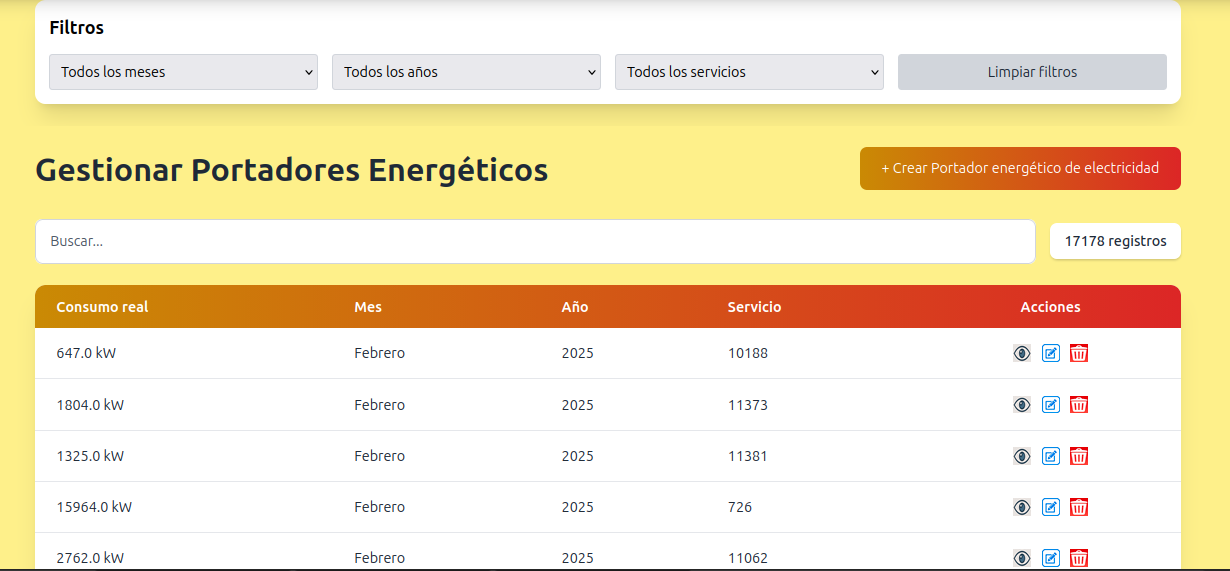
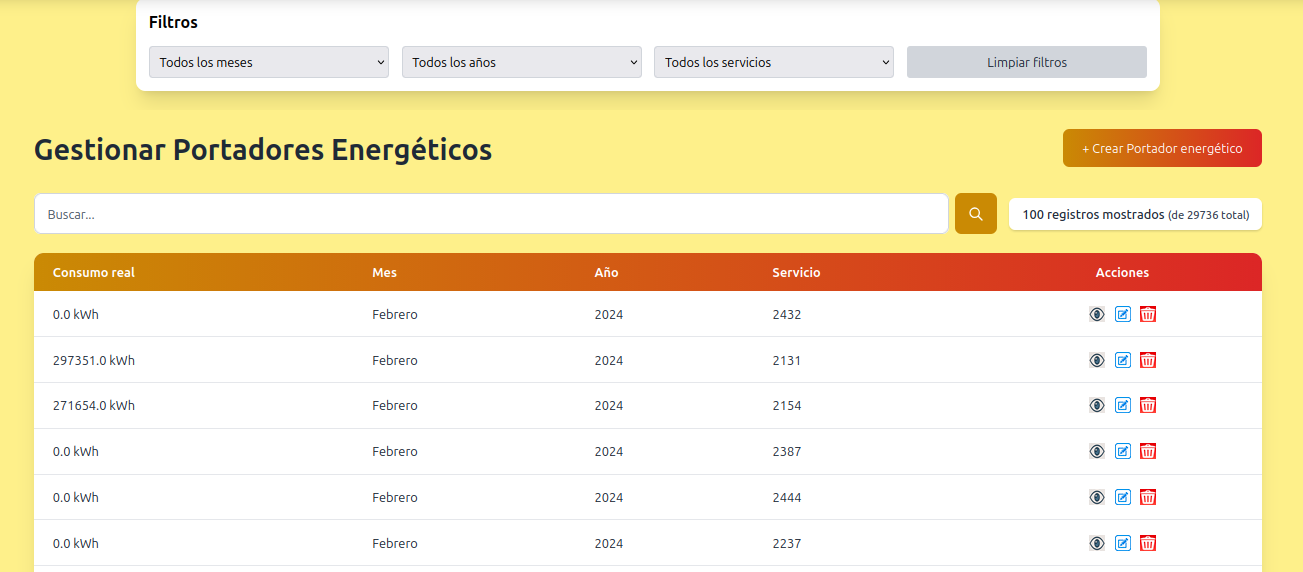
Mejorando gráfico de inicio

diff --git a/frontend/src/pages/inicio.jsx b/frontend/src/pages/inicio.jsx
@@ -10,7 +10,7 @@ export function Inicio() {
   const [selectedYear, setSelectedYear] = useState(null);
   const [years, setYears] = useState([]);
   const [loadingYears, setLoadingYears] = useState(true);
-  const [unidad, setUnidad] = useState('MW'); 
+  const [unidad, setUnidad] = useState('MWh'); 
 
   useEffect(() => {
     const fetchYears = async () => {
@@ -83,20 +83,28 @@ export function Inicio() {
             <span className="text-gray-700 font-medium">Unidad:</span>
             <div className="flex gap-2">
               <button
-                onClick={() => setUnidad('kW')}
+                onClick={() => setUnidad('kWh')}
                 className={`px-3 py-1 rounded-md transition ${
-                  unidad === 'kW' ? 'bg-red-600 text-white' : 'bg-gray-200 text-gray-700 hover:bg-gray-300'
+                  unidad === 'kWh' ? 'bg-red-600 text-white' : 'bg-gray-200 text-gray-700 hover:bg-gray-300'
                 }`}
               >
-                kW
+                kWh
               </button>
               <button
-                onClick={() => setUnidad('MW')}
+                onClick={() => setUnidad('MWh')}
                 className={`px-3 py-1 rounded-md transition ${
-                  unidad === 'MW' ? 'bg-red-600 text-white' : 'bg-gray-200 text-gray-700 hover:bg-gray-300'
+                  unidad === 'MWh' ? 'bg-red-600 text-white' : 'bg-gray-200 text-gray-700 hover:bg-gray-300'
                 }`}
               >
-                MW
+                MWh
+              </button>
+              <button
+                onClick={() => setUnidad('GWh')}
+                className={`px-3 py-1 rounded-md transition ${
+                  unidad === 'GWh' ? 'bg-red-600 text-white' : 'bg-gray-200 text-gray-700 hover:bg-gray-300'
+                }`}
+              >
+                GWh
               </button>
             </div>
           </div>

diff --git a/frontend/src/components/ConsumoAnualChart.jsx b/frontend/src/components/ConsumoAnualChart.jsx
@@ -23,7 +23,7 @@ const yAxisFormat = (value) => {
   return value.toString();
 };
 
-export function ConsumoAnualChart({ año, unidad = 'kW' }) {
+export function ConsumoAnualChart({ año, unidad = 'kWh' }) {
   const [data, setData] = useState([]);
   const [loading, setLoading] = useState(true);
   const [error, setError] = useState(null);
@@ -53,9 +53,12 @@ export function ConsumoAnualChart({ año, unidad = 'kW' }) {
   if (!data.length) return <div className="text-center py-12 text-gray-600">No hay datos disponibles para el año {año}</div>;
 
   const maxTotal = Math.max(...data.map(d => d.total), 0);
-  const yDomain = [0, maxTotal * 1.1 || 100];
+  const yDomain = [0, Math.ceil(maxTotal * 1.1)];
 
-  const unidadLower = unidad === 'MW' ? 'MW' : 'kW';
+  let unidadLower = 'kWh';
+  if (unidad === 'MWh') unidadLower = 'MWh';
+  else if (unidad === 'GWh') unidadLower = 'GWh';
+  else unidadLower = 'kWh';
 
   return (
     <div className="bg-white rounded-2xl shadow-xl p-6 max-w-4xl mx-auto">

diff --git a/frontend/src/components/TopEntidadesConsumo.jsx b/frontend/src/components/TopEntidadesConsumo.jsx
@@ -9,7 +9,7 @@ const formatNumber = (num) => {
   }).replace(/\./g, ' ');
 };
 
-export function TopEntidadesConsumo({ año, unidad = 'kW' }) {
+export function TopEntidadesConsumo({ año, unidad = 'kWh' }) {
   const [data, setData] = useState([]);
   const [loading, setLoading] = useState(true);
   const [error, setError] = useState(null);
@@ -35,7 +35,10 @@ export function TopEntidadesConsumo({ año, unidad = 'kW' }) {
   if (error) return <div className="text-center py-4 text-red-600">{error}</div>;
   if (!data.length) return <div className="text-center py-4 text-gray-900">No hay datos para el año {año}.</div>;
 
-  const unidadLabel = unidad === 'MW' ? 'MW' : 'kW';
+  let unidadLabel = 'kWh';
+  if (unidad === 'MWh') unidadLabel = 'MWh';
+  else if (unidad === 'GWh') unidadLabel = 'GWh';
+  else unidadLabel = 'kWh';
 
   return (
     <div className="bg-white rounded-2xl shadow-xl p-6 max-w-4xl mx-auto mt-8">

diff --git a/frontend/src/api/consultas.js b/frontend/src/api/consultas.js
@@ -1,7 +1,7 @@
 import axios from './axios';
 
 
-export const getConsumoPorMes = async (anio, unidad = 'kW') => {
+export const getConsumoPorMes = async (anio, unidad = 'kWh') => {
   try {
     const response = await axios.get(`/consultas/consumo-por-mes/`, {
       params: { anio, unidad }
@@ -13,7 +13,7 @@ export const getConsumoPorMes = async (anio, unidad = 'kW') => {
   }
 };
 
-export const getTopEntidadesConsumo = async (anio, unidad = 'kW') => {
+export const getTopEntidadesConsumo = async (anio, unidad = 'kWh') => {
   try {
     const response = await axios.get(`/consultas/top-entidades/${anio}/`, {
       params: { unidad }

diff --git a/frontend/src/pages/gestionar/entidad/ver.jsx b/frontend/src/pages/gestionar/entidad/ver.jsx
@@ -11,9 +11,9 @@ const fields = [
   { key: 'municipio_nombre', label: 'Municipio' },
   { key: 'organismo', label: 'Organismo' },
   { key: 'nae_nombre', label: 'NAE' },
+  { key: 'cuenta_bancaria_formateada', label: 'Cuenta bancaria' },
   { key: 'siglas', label: 'Siglas' },
   { key: 'telefono', label: 'Teléfono' },
-  { key: 'cuenta_bancaria', label: 'Cuenta bancaria' },
   { key: 'NIT', label: 'NIT' },
   { key: 'direccion', label: 'Dirección' },
   { key: 'geolocalizacion', label: 'Geolocalización' },

diff --git a/frontend/src/components/Navegación.jsx b/frontend/src/components/Navegación.jsx
@@ -30,7 +30,6 @@ export function Navegación() {
       items: [
         { name: 'Servicio eléctrico', path: '/gestionar/servicio-electrico' },
         { name: 'Portador energético', path: '/gestionar/portador_energetico_elec' },
-        { name: 'Unidad de medida', path: '/gestionar/unidad_medida' },
       ]
     },
     {

diff --git a/frontend/src/pages/gestionar/portador_energetico_elec/formulario.jsx b/frontend/src/pages/gestionar/portador_energetico_elec/formulario.jsx
@@ -71,7 +71,7 @@ export function PortadorEnergeticoElecForm() {
       loadOptions: searchServicioElectrico,
       placeholder: 'Buscar servicio por código...' 
     },
-    { name: 'unidad_medida', label: 'Unidad de medida', type: 'select', required: true, options: unidadMedidaOptions },
+  
   ];
 
   if (loading) {

diff --git a/backend/app_gestion/views/consultas/consumo_por_mes.py b/backend/app_gestion/views/consultas/consumo_por_mes.py
@@ -12,14 +12,14 @@ class ConsumoPorMesView(APIView):
     Endpoint para obtener el consumo por mes con desplazamiento hacia adelante.
     Parámetros:
         - anio (requerido): año visual.
-        - unidad (opcional): 'kW' (default) o 'MW'.
+        - unidad (opcional): 'kWh', 'MWh' o 'GWh' (por defecto 'kWh').
     """
     authentication_classes = [TokenAuthentication]
     permission_classes = [IsAuthenticated]
 
     def get(self, request):
         año_param = request.query_params.get('anio')
-        unidad = request.query_params.get('unidad', 'kW').upper()
+        unidad = request.query_params.get('unidad', 'kWh').upper()
 
         if not año_param:
             return Response(
@@ -34,8 +34,8 @@ class ConsumoPorMesView(APIView):
                 status=status.HTTP_400_BAD_REQUEST
             )
 
-        if unidad not in ('KW', 'MW'):
-            unidad = 'MW'
+        if unidad not in ('KWH', 'MWH', 'GWH'):
+            unidad = 'KWH'
 
         resultado = []
         for mes_visual in range(1, 13):
@@ -46,14 +46,19 @@ class ConsumoPorMesView(APIView):
                 año_real = año
                 mes_real = mes_visual + 1
 
-            total_kw = (
+            total_kwh = (
                 Portador_energetico_elec.objects
                 .filter(año=año_real, mes=mes_real)
                 .aggregate(total=Sum('consumo_real'))['total'] or 0
             )
 
             # Conversión según unidad
-            total = total_kw / 1000.0 if unidad == 'MW' else total_kw
+            if unidad == 'MWH':
+                total = total_kwh / 1000.0
+            elif unidad == 'GWH':
+                total = total_kwh / 1000000.0
+            else:
+                total = total_kwh
 
             resultado.append({
                 'mes': mes_visual,

diff --git a/backend/app_gestion/views/consultas/entidades_mayor_consumo.py b/backend/app_gestion/views/consultas/entidades_mayor_consumo.py
@@ -11,7 +11,7 @@ class TopEntidadesConsumoView(APIView):
     Endpoint para las 10 entidades de mayor consumo en un año VISUAL.
     Parámetros:
         - anio (en URL): año visual.
-        - unidad (query): 'kW' (default) o 'MW'.
+        - unidad (query): 'kWh', 'MWh' o 'GWh' (por defecto 'kWh').
     """
     authentication_classes = [TokenAuthentication]
     permission_classes = [IsAuthenticated]
@@ -25,9 +25,9 @@ class TopEntidadesConsumoView(APIView):
                 status=status.HTTP_400_BAD_REQUEST
             )
 
-        unidad = request.query_params.get('unidad', 'kW').upper()
-        if unidad not in ('KW', 'MW'):
-            unidad = 'MW'
+        unidad = request.query_params.get('unidad', 'kWh').upper()
+        if unidad not in ('KWH', 'MWH', 'GWH'):
+            unidad = 'KWH'
 
         condicion = Q(año=anio, mes__gte=2, mes__lte=12) | Q(año=anio + 1, mes=1)
 
@@ -41,8 +41,13 @@ class TopEntidadesConsumoView(APIView):
 
         data = []
         for item in resultados:
-            total_kw = item['consumo_total'] or 0
-            total = total_kw / 1000.0 if unidad == 'MW' else total_kw
+            total_kwh = item['consumo_total'] or 0
+            if unidad == 'MWH':
+                total = total_kwh / 1000.0
+            elif unidad == 'GWH':
+                total = total_kwh / 1000000.0
+            else:
+                total = total_kwh
             data.append({
                 "nombre": item['servicio__entidad__nombre'],
                 "codigo_reeup": item['servicio__entidad__codigo_REEUP'],

diff --git a/backend/app_gestion/serializers/portador_energetico_elec.py b/backend/app_gestion/serializers/portador_energetico_elec.py
@@ -6,7 +6,6 @@ import datetime
 
 class PortadorEnergeticoElecSerializer(TimeStampedSerializer):
     servicio_codigo = serializers.IntegerField(source='servicio.codigo_servicio', read_only=True)
-    unidad_medida_nombre = serializers.SerializerMethodField()
     consumo_real_con_unidad = serializers.SerializerMethodField()
     mes_nombre = serializers.SerializerMethodField()
 
@@ -42,17 +41,11 @@ class PortadorEnergeticoElecSerializer(TimeStampedSerializer):
             raise serializers.ValidationError("El consumo planificado no puede ser negativo.")
         return value
 
-    def get_unidad_medida_nombre(self, obj):
-        """Retorna el nombre de la unidad de medida o None si no existe."""
-        if obj.unidad_medida:
-            return obj.unidad_medida.unidad
-        return None
 
     def get_consumo_real_con_unidad(self, obj):
-        """Retorna el consumo real con su unidad si existe, solo el número si no."""
-        if obj.unidad_medida:
-            return f"{obj.consumo_real} {obj.unidad_medida.unidad}"
-        return str(obj.consumo_real)  # o f"{obj.consumo_real} (sin unidad)" si prefieres
+        """Retorna el consumo real con su unidad de medida"""
+        return f"{obj.consumo_real} kWh"
+        
 
     def get_mes_nombre(self, obj):
         meses = {

diff --git a/backend/app_gestion/urls/api_urls.py b/backend/app_gestion/urls/api_urls.py
@@ -5,7 +5,7 @@ from ..views import (
     SectorEconomicoViewSet, EstablecimientoViewSet, MunicipioViewSet,
     ProvinciaViewSet, ServicioElectricoViewSet, 
     EntidadEmpresarialViewSet, EntidadPresupuestadaViewSet,
-    NAEViewSet, UnidadMedidaViewSet, PortadorEnergeticoElecViewSet,
+    NAEViewSet, PortadorEnergeticoElecViewSet,
    
 )
 
@@ -21,7 +21,6 @@ router.register(r'municipios', MunicipioViewSet, basename='municipios')
 router.register(r'provincias', ProvinciaViewSet, basename='provincias')
 router.register(r'servicios-electricos', ServicioElectricoViewSet, basename='servicios-electricos')
 router.register(r'nae', NAEViewSet, basename='nae')
-router.register(r'unidades-medida', UnidadMedidaViewSet, basename='unidades-medida')
 router.register(r'portadores-energeticos', PortadorEnergeticoElecViewSet, basename='portadores-energeticos')
 
 

diff --git a/backend/app_gestion/serializers/entidad/entidad.py b/backend/app_gestion/serializers/entidad/entidad.py
@@ -13,6 +13,7 @@ class EntidadSerializer(TimeStampedSerializer):
     tipo = serializers.SerializerMethodField()
     director = DirectorSerializer(read_only=True)
     organismo = serializers.SerializerMethodField()
+    cuenta_bancaria_formateada = serializers.SerializerMethodField()
 
     # Validaciones
     codigo_REEUP = serializers.CharField(
@@ -157,3 +158,9 @@ class EntidadSerializer(TimeStampedSerializer):
                 except Organismo.DoesNotExist:
                     return None
         return None
+
+    def get_cuenta_bancaria_formateada(self, obj):
+        cuenta = obj.cuenta_bancaria
+        if cuenta and isinstance(cuenta, str) and len(cuenta) == 16 and cuenta.isdigit():
+            return f"{cuenta[:4]}-{cuenta[4:8]}-{cuenta[8:12]}-{cuenta[12:16]}"
+        return cuenta
